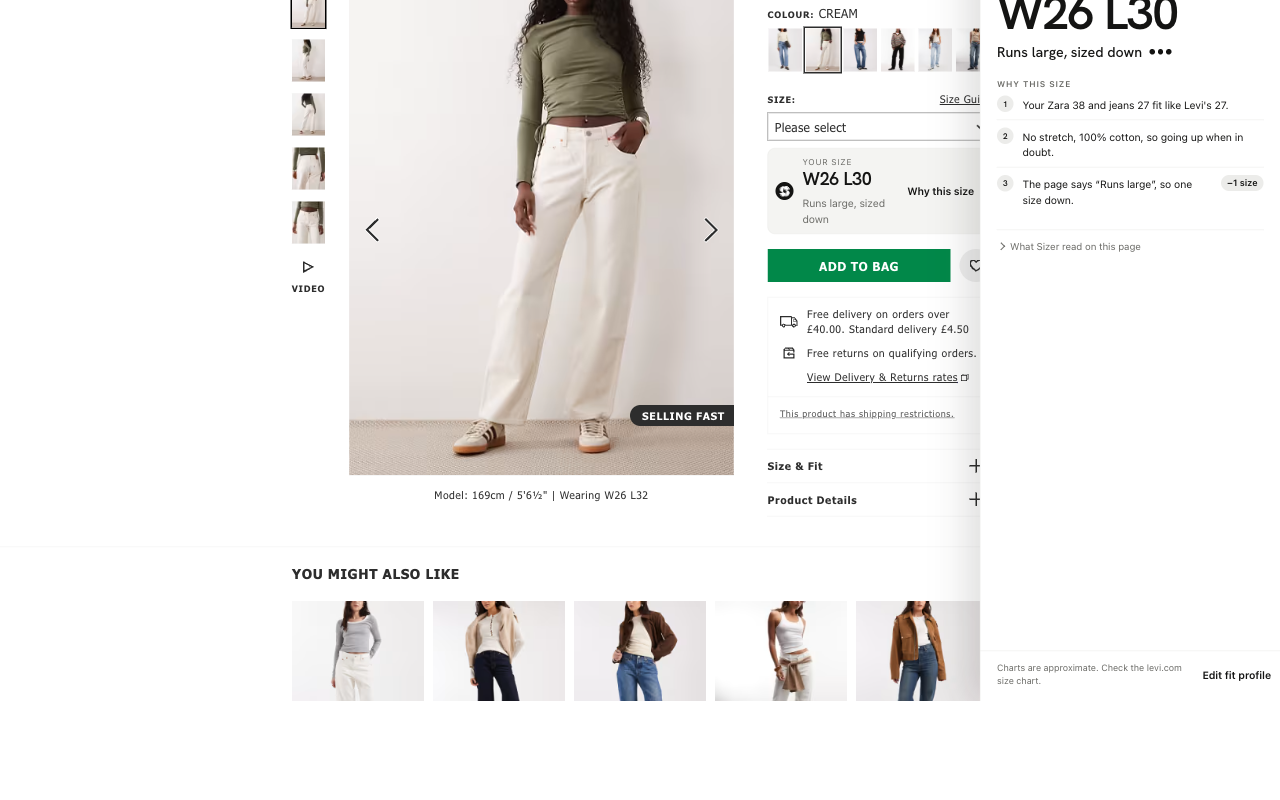
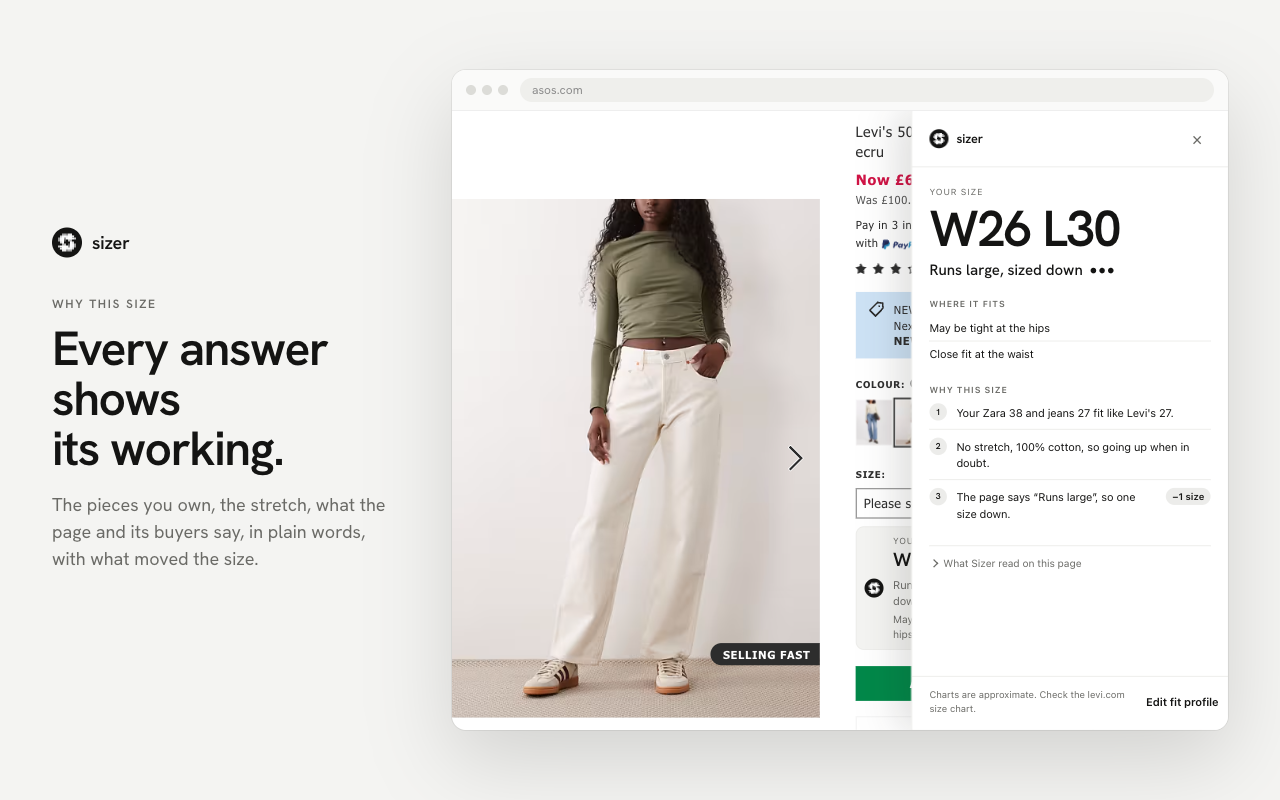
Redo the store screenshots as framed, zoomed shop pages
Each screenshot is now a headline beside a browser window showing a
real page with Sizer running, zoomed onto the product details so the
size reads at a glance: Zalando, ASOS with the reasoning sheet,
Net-a-Porter, a Vinted UK listing, and the fit profile. Crops start
below each shop's header so no logo shows; the shop's pop-ups and
floating buttons are hidden, and a seller's name would be blurred.

tools/render-shop.py now takes its script list from the manifest, so a
render can no longer fall behind the extension (it was missing the
sheet, feedback and fit-question files), and renders Vinted listings
under items/ with an owned pair measured flat. The two load-order
guards check that instead of the old hard-coded list.

diff --git a/store/frames.html b/store/frames.html
@@ -3,30 +3,39 @@
 <head>
   <meta charset="utf-8">
   <title>Sizer store frames</title>
-  <!-- Store and launch imagery. ?n=1..4 picks the frame, ?kind=promo|marquee renders the tiles. -->
+  <!--
+    Store and launch imagery at 1280×800. ?n=1..5 picks the screenshot, ?kind=promo|marquee the tiles.
+    Shots 1 to 4 frame a real shop page with Sizer running (store/render/, built by
+    tools/render-shop.py from the saved pages), zoomed onto the product details so the size reads at
+    a glance. Each crop starts below the shop's header, so no shop logo is in the picture; anything
+    personal that falls inside a crop (a seller's name) is blurred.
+  -->
   <link rel="stylesheet" href="../ui/fonts.css">
   <style>
     :root {
       --fog: #f4f4f2; --graphite: #141413; --muted: #6a6a66; --hair: #e9e9e6; --accent: #141413;
-      --serif: "Hanken Grotesk", "Helvetica Neue", Helvetica, Arial, sans-serif;
       --sans: "Hanken Grotesk", "Helvetica Neue", Helvetica, Arial, sans-serif;
     }
     html, body { margin: 0; background: var(--fog); color: var(--graphite); font: 16px/1.5 var(--sans); -webkit-font-smoothing: antialiased; }
-    .frame { width: 1280px; height: 800px; display: grid; grid-template-columns: 380px 724px; gap: 48px; align-items: center; padding: 0 64px; box-sizing: border-box; overflow: hidden; }
+    .frame { width: 1280px; height: 800px; display: grid; grid-template-columns: 360px 776px; gap: 40px; align-items: center; padding: 0 52px 0 52px; box-sizing: border-box; overflow: hidden; }
     .mark { display: inline-grid; place-items: center; width: 30px; height: 30px; border-radius: 50%; background: var(--accent); overflow: hidden; vertical-align: middle; }
     .mark img { width: 28px; height: 28px; display: block; }
-    .word { font: 600 18px/1 var(--serif); letter-spacing: -.01em; margin-left: 10px; vertical-align: middle; }
-    h1 { font: 600 50px/1.04 var(--serif); letter-spacing: -.03em; margin: 34px 0 18px; text-wrap: balance; }
-    p { margin: 0; font-size: 18px; color: var(--muted); max-width: 360px; }
-    .window { width: 724px; height: 640px; background: #fff; border-radius: 14px; box-shadow: 0 30px 80px rgba(28, 27, 24, .18), 0 0 0 1px rgba(28, 27, 24, .06); overflow: hidden; position: relative; }
-    .chrome { height: 38px; border-bottom: 1px solid #eee; display: flex; align-items: center; padding: 0 16px; gap: 10px; font-size: 12px; color: #8a8a8a; }
-    .url { flex: 1; height: 22px; border-radius: 11px; background: #f3f3f3; display: flex; align-items: center; padding: 0 12px; }
-    iframe, .window img { border: 0; width: 1180px; height: 981px; transform: scale(.6136); transform-origin: 0 0; position: absolute; top: 38px; left: 0; }
+    .word { font: 600 18px/1 var(--sans); letter-spacing: -.01em; margin-left: 10px; vertical-align: middle; }
+    .eyebrow { margin-top: 40px; font: 600 12px/1 var(--sans); letter-spacing: .14em; text-transform: uppercase; color: var(--muted); }
+    h1 { font: 600 48px/1.04 var(--sans); letter-spacing: -.03em; margin: 14px 0 18px; text-wrap: balance; }
+    p { margin: 0; font-size: 18px; line-height: 1.5; color: var(--muted); max-width: 340px; text-wrap: pretty; }
+    .window { width: 776px; height: 660px; background: #fff; border-radius: 14px; box-shadow: 0 30px 80px rgba(28, 27, 24, .16), 0 0 0 1px rgba(28, 27, 24, .07); overflow: hidden; position: relative; }
+    .chrome { height: 40px; border-bottom: 1px solid #eee; display: flex; align-items: center; padding: 0 14px; gap: 12px; font-size: 12px; color: #8a8a8a; background: #fafaf9; }
+    .dots { display: flex; gap: 6px; } .dots i { width: 10px; height: 10px; border-radius: 50%; background: #dcdcd8; display: block; }
+    .url { flex: 1; height: 24px; border-radius: 12px; background: #efefec; display: flex; align-items: center; padding: 0 12px; }
+    .view { position: absolute; top: 41px; left: 0; right: 0; bottom: 0; overflow: hidden; }
+    .view iframe { border: 0; position: absolute; top: 0; left: 0; transform-origin: 0 0; }
+    .view img { width: 100%; display: block; }
 
     .tile { width: 440px; height: 280px; background: var(--accent); color: var(--fog); display: flex; flex-direction: column; justify-content: center; padding: 0 40px; box-sizing: border-box; }
     .tile .logo { width: 72px; height: 72px; display: block; }
     .marquee .logo { width: 120px; height: 120px; }
-    .tile .t { font: 600 34px/1.08 var(--serif); letter-spacing: -.015em; margin-top: 22px; }
+    .tile .t { font: 600 34px/1.08 var(--sans); letter-spacing: -.015em; margin-top: 22px; }
     .marquee { width: 1400px; height: 560px; padding: 0 110px; }
     .marquee .t { font-size: 64px; max-width: 900px; }
     .marquee .sub { font-size: 21px; opacity: .8; margin-top: 18px; max-width: 760px; }
@@ -35,11 +44,19 @@
 <body>
   <script>
     const q = new URLSearchParams(location.search);
+    // [eyebrow, title, line, page, address bar, crop]. The crop is in the page's own pixels at a
+    // 1280 px wide window: x and y of the top left corner, and the width shown.
     const FRAMES = {
-      1: ['Your size, right under the size picker.', 'Sizer reads the brand, the fabric and the fit notes, then tells you which size to pick.', '../tests/fixture-shop.html?picker-open=1&charts=1', 'demo-shop.example/jeans'],
-      2: ['Every answer shows its working.', 'Your sizes, the brand’s chart, the stretch and the page’s own fit notes, in plain words.', '../tests/fixture-shop.html?open=why&charts=1', 'demo-shop.example/jeans'],
-      3: ['Sold out? It says what’s close.', 'When your size is gone, Sizer names the nearest sizes in stock and how far off they are.', '../tests/fixture-shop.html?stock=out&picker-open=1&charts=1', 'demo-shop.example/jeans'],
-      4: ['Set up once, in under a minute.', 'Add your measurements, clothes that already fit, or both. Everything stays in your browser.', 'out/_options.png', 'Sizer · Your fit profile'],
+      1: ['On any product page', 'Your size, right under the size picker.', 'Sizer reads the brand’s chart, the fabric and the page’s fit notes. When your size is sold out, it names the nearest ones in stock.',
+          'render/zalando.html', 'zalando.co.uk', { x: 330, y: 236, w: 930 }],
+      2: ['Why this size', 'Every answer shows its working.', 'The pieces you own, the stretch, what the page and its buyers say, in plain words, with what moved the size.',
+          'render/asos.html', 'asos.com', { x: 300, y: 200, w: 980, open: 'why' }],
+      3: ['On the size grid', 'Your size, marked where you pick it.', 'On shops with size buttons, Sizer marks your size in the grid and says why in one line.',
+          'render/nap.html', 'net-a-porter.com', { x: 450, y: 140, w: 830 }],
+      4: ['Second-hand on Vinted', 'Does it fit? Checked against what you own.', 'Sizer reads the seller’s measurements and compares them with a piece you already wear. Missing one, it writes the message to ask.',
+          'render/items/vinted-store.html', 'vinted.co.uk', { x: 380, y: 640, w: 900, hide: ['[data-testid*="profile-username"]'], css: '[itemprop="description"] > div { max-height: none !important; } [itemprop="description"] > button { display: none !important; } .details-list--actions { display: none !important; } [class*="skeleton" i], [class*="placeholder" i] { visibility: hidden !important; }' }],
+      5: ['Your fit profile', 'Set up once, in under a minute.', 'Add your measurements, clothes that already fit, or both. Everything stays in your browser.',
+          'out/_options.png', 'Sizer · Your fit profile', null],
     };
     const kind = q.get('kind');
     if (kind === 'promo' || kind === 'marquee') {
@@ -47,11 +64,56 @@
         <div class="t">Your size, on every product page.</div>
         ${kind === 'marquee' ? '<div class="sub">Sizer reads the brand, the fabric and the fit notes, and puts your size under the size picker.</div>' : ''}</div>`);
     } else {
-      const [title, sub, src, url] = FRAMES[q.get('n') || 1];
+      const [eyebrow, title, sub, src, url, crop] = FRAMES[q.get('n') || 1];
       document.write(`<div class="frame">
-        <div><span class="mark"><img src="../brand/mark.svg" alt=""></span><span class="word">sizer</span><h1>${title}</h1><p>${sub}</p></div>
-        <div class="window"><div class="chrome"><div class="url">${url}</div></div>${src.endsWith('.png') ? `<img src="${src}" alt="">` : `<iframe src="${src}" title="Preview"></iframe>`}</div>
+        <div><span class="mark"><img src="../brand/mark.svg" alt=""></span><span class="word">sizer</span>
+          <div class="eyebrow">${eyebrow}</div><h1>${title}</h1><p>${sub}</p></div>
+        <div class="window"><div class="chrome"><div class="dots"><i></i><i></i><i></i></div><div class="url">${url}</div></div>
+          <div class="view">${crop ? `<iframe src="${src}" title="Preview" scrolling="no"></iframe>` : `<img src="${src}" alt="">`}</div></div>
       </div>`);
+      if (crop) {
+        const view = document.querySelector('.view');
+        const frame = document.querySelector('iframe');
+        const s = view.clientWidth / crop.w;
+        // The page lays out at 1280 wide; the window shows crop.w of it, from crop.x, so fixed
+        // panels (the reasoning sheet) stay inside the visible part.
+        Object.assign(frame.style, { width: `${crop.x + crop.w}px`, height: `${view.clientHeight / s}px`, transform: `scale(${s}) translateX(${-crop.x}px)` });
+        frame.addEventListener('load', () => {
+          const doc = frame.contentDocument;
+          const style = doc.createElement('style');
+          // The shop's own pop-ups (country pickers, chat buttons) would sit over the page, and the
+          // render has no script to dismiss them.
+          style.textContent = `[role="dialog"], [aria-modal="true"], [class*="Dialog__overlay" i], [class*="modal-overlay" i], [id*="chat" i], [class*="chat-widget" i] { display: none !important; }
+            ${(crop.hide || []).map((sel) => `${sel} { filter: blur(6px) !important; }`).join('\n')}
+            ${crop.css || ''}`;
+          doc.head.appendChild(style);
+          // Floating shop buttons (feedback, chat, back to top) are small fixed boxes; Sizer's own are kept.
+          const tidy = () => doc.querySelectorAll('body *').forEach((el) => {
+            if (/^sizer/.test(el.id)) return;
+            const cs = frame.contentWindow.getComputedStyle(el);
+            if (cs.position === 'fixed' && el.getBoundingClientRect().width < 200) el.style.setProperty('display', 'none', 'important');
+          });
+          const place = () => { tidy(); frame.contentWindow.scrollTo(0, crop.y); };
+          place();
+          if (crop.open === 'why') {
+            const tryOpen = () => {
+              const host = doc.getElementById('sizer-inline') || doc.getElementById('sizer-pill');
+              const b = host && host.shadowRoot && host.shadowRoot.querySelector('[data-act="why"]');
+              if (!b) { setTimeout(tryOpen, 200); return; }
+              b.click();
+              // The sheet slides in with an animation that a scaled frame can leave on its first
+              // (transparent) frame, so the still shows it where it ends.
+              setTimeout(() => {
+                const panel = doc.getElementById('sizer-panel');
+                if (panel && panel.shadowRoot) panel.shadowRoot.appendChild(Object.assign(doc.createElement('style'), { textContent: '* { animation: none !important; }' }));
+                place();
+              }, 300);
+            };
+            setTimeout(tryOpen, 800);
+          }
+          setTimeout(place, 1500);
+        });
+      }
     }
   </script>
 </body>

diff --git a/tests/review-details.test.js b/tests/review-details.test.js
@@ -77,11 +77,11 @@ test('review-details.js loads before engine.js everywhere the engine runs in a p
     ['ui/popup.js', "'src/review-details.js'", "'src/engine.js'"],
     ['tests/fixture-shop.html', 'src/review-details.js', 'src/engine.js'],
     ['tests/shops.html', 'src/review-details.js', 'src/engine.js'],
-    ['tools/render-shop.py', "'review-details'", "'engine'"],
   ]) {
     const text = read(file);
     assert.ok(text.indexOf(a) > -1 && text.indexOf(a) < text.indexOf(b), file);
   }
+  assert.match(read('tools/render-shop.py'), /manifest\['content_scripts'\]/, 'render-shop.py reads the manifest list');
 });
 
 test('the engine reads raw review cards, keeping only those with a verdict or an area', () => {

diff --git a/tests/guide-table.test.js b/tests/guide-table.test.js
@@ -255,11 +255,11 @@ test('guide-table.js loads before extract.js everywhere the reader runs', () => 
     ['ui/popup.js', "'src/guide-table.js'", "'src/extract.js'"],
     ['tests/fixture-shop.html', 'src/guide-table.js', 'src/extract.js'],
     ['tests/shops.html', 'src/guide-table.js', 'src/extract.js'],
-    ['tools/render-shop.py', "'guide-table'", "'extract'"],
   ]) {
     const text = read(file);
     assert.ok(text.indexOf(a) > -1 && text.indexOf(a) < text.indexOf(b), file);
   }
+  assert.match(read('tools/render-shop.py'), /manifest\['content_scripts'\]/, 'render-shop.py reads the manifest list');
 });
 
 test('hints carry through to the chart', () => {

diff --git a/tools/render-shop.py b/tools/render-shop.py
@@ -4,26 +4,38 @@
 
 Reads tests/fixtures/shops/<name>.html, writes store/render/<name>.html, which the demo server serves
 at http://localhost:8766/store/render/<name>.html. The stub profile is the demo one (Zara 38, jeans 27).
+The scripts are the manifest's own list for that kind of page (a Vinted listing gets the Vinted
+reader), so a render never falls behind the extension. SIZER_PORT picks another demo server port.
 """
-import re, sys, pathlib, time
+import json, os, re, sys, pathlib, time
 name, base = sys.argv[1], sys.argv[2]
 root = pathlib.Path(__file__).resolve().parent.parent
+port = os.environ.get('SIZER_PORT', '8766')
+manifest = json.loads((root / 'manifest.json').read_text())
+vinted = name.startswith('vinted')
+scripts = next(cs['js'] for cs in manifest['content_scripts'] if vinted == any('vinted' in m for m in cs['matches']))
 html = (root / 'tests/fixtures/shops' / f'{name}.html').read_text()
 html = re.sub(r'<meta[^>]+http-equiv="Content-Security-Policy"[^>]*>', '', html, flags=re.I)
 html = re.sub(r'<head>', f'<head><base href="{base}">', html, count=1, flags=re.I)
 stub = """<script>
-window.chrome = { runtime: { getURL: (p) => 'http://localhost:8766/' + p, sendMessage: async () => ({}), onMessage: { addListener: () => {} } },
+window.chrome = { runtime: { id: 'render', getURL: (p) => 'http://localhost:PORT/' + p, sendMessage: async () => ({}), onMessage: { addListener: () => {} } },
   storage: { sync: { get: (d, cb) => cb({ profile: { anchors: [{ brand: 'Zara', type: 'jeans', size: '38', fit: 'perfect' }, { brand: '', type: 'jeans', size: '27', fit: 'perfect' }], waist: '', hip: '', inseam: '', footLength: '', unit: 'cm', fitPreference: 'regular', theme: 'system' } }) },
     local: { get: (d, cb) => cb(typeof d === 'string' ? {} : d) }, onChanged: { addListener: () => {} } } };
 </script>
-""" + ''.join(f'<script src="http://localhost:8766/src/{f}.js?v={int(time.time())}"></script>\n' for f in ['brands', 'charts-store', 'charts', 'defaults', 'review-details', 'engine', 'guide-table', 'extract', 'panel-style', 'mark', 'content'])
+""" + ''.join(f'<script src="http://localhost:{port}/{f}?v={int(time.time())}"></script>\n' for f in scripts)
+stub = stub.replace('PORT', port)
 # the shop's own scripts must not run again from a file: they would re-render and fight the snapshot
 html = re.sub(r'<script\b(?![^>]*application/ld\+json)[^>]*>.*?</script>', '', html, flags=re.S | re.I)
 # consent banners would sit on top of every render
 html = re.sub(r'<div[^>]+id="onetrust-consent-sdk"[^>]*>.*?</div>\s*</div>\s*</div>\s*</div>', '', html, flags=re.S)
 stub = '<style>#onetrust-consent-sdk, #onetrust-banner-sdk, [id^="onetrust"], [class*="cookie-banner" i], [class*="cookieBanner" i], [id*="cookie-banner" i], [class*="consent" i][role="dialog"], #tc-privacy-wrapper, #ca-cookie-overlay, [id^="footer_tc_privacy"], #chrome-welcome-mat, [data-testid="welcome-message"] { display: none !important }</style>\n' + stub
+if vinted:
+    # A listing is compared with a piece you measured flat, so the Vinted render owns one pair.
+    stub = stub.replace("{ brand: '', type: 'jeans', size: '27', fit: 'perfect' }",
+                        "{ brand: 'Levi\\'s', type: 'jeans', size: '27', fit: 'perfect', flat: { waist: 36, inseam: 78 } }")
 html = html.replace('</body>', stub + '</body>', 1)
-out = root / 'store/render' / f'{name}.html'
+# the Vinted reader runs only on a listing path, so its renders live under items/
+out = root / 'store/render' / ('items' if vinted else '') / f'{name}.html'
 out.parent.mkdir(parents=True, exist_ok=True)
 out.write_text(html)
 print(out, len(html))

diff --git a/store/LISTING.md b/store/LISTING.md
@@ -101,10 +101,13 @@ Size finder · size recommendation · what size am I · jeans size · size chart
 - Icon: `icons/128.png`
 - Screenshots (1280×800), in this order: `store/out/screenshot-1.png` (Zalando: fit note read,
   sold out, nearest in stock), `screenshot-2.png` (ASOS: the reasoning sheet), `screenshot-3.png`
-  (Net-a-Porter: the answer ringed in the size grid), `screenshot-4.png` (fit profile),
-  `screenshot-5.png` (Revolve: sold-out sizes read from the grid). Real pages captured with Sizer
-  running, framed below each shop's header on purpose so no shop logo appears; the description's
-  "not affiliated" line covers the shop names that remain in the text.
+  (Net-a-Porter: the answer marked in the size grid), `screenshot-4.png` (Vinted: the seller's
+  measurements against a pair you own), `screenshot-5.png` (fit profile). Each is a headline beside
+  a browser window showing a real page with Sizer running, zoomed onto the product details and
+  framed below the shop's header on purpose so no shop logo appears; the description's "not
+  affiliated" line covers the shop names that remain in the text. Rebuild them with
+  `store/frames.html?n=1..5` at 1280×800 after `tools/render-shop.py` (the Vinted page renders
+  from a capture kept out of the repo, since it carries a seller's listing).
 - Small promo tile (440×280): `store/out/promo-440x280.png`
 - Marquee (1400×560): `store/out/marquee-1400x560.png`
 
